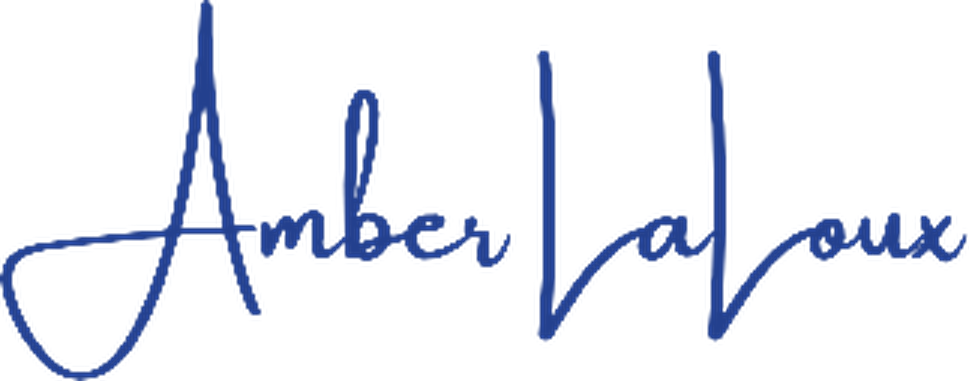
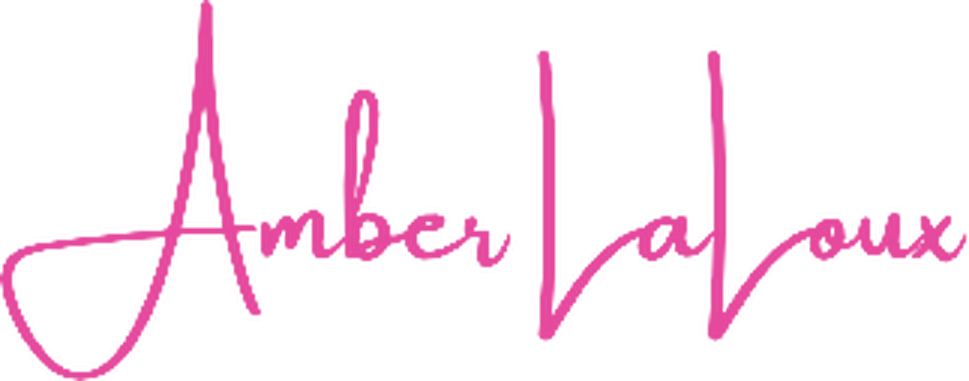
Welcome page: remove number circles, pink signature
Claude-Session: https://claude.ai/code/session_01Hod3XMK3ZcDXfs4SLCtgPB

Changed region(s): [[0.0, 0.0, 0.5263, 1.0], [0.5263, 0.1155, 1.0, 0.895]]

diff --git a/warrior_welcome.html b/warrior_welcome.html
@@ -67,7 +67,6 @@ footer{text-align:center;padding:30px 20px;font-size:15px;color:#7A6355}
 </section>
 
 <section class="gift" id="prayer">
-  <div class="num">1</div>
   <div>
     <h2>Your Warrior Prayer</h2>
     <p>Find a quiet moment, take a deep breath, and let me pray over you and your home.</p>
@@ -76,7 +75,6 @@ footer{text-align:center;padding:30px 20px;font-size:15px;color:#7A6355}
 </section>
 
 <section class="gift" id="song">
-  <div class="num">2</div>
   <div>
     <h2>Rise Up, Warrior Woman</h2>
     <p>Your Warrior Call anthem, an original song written for women who answer the call. Play it loud on the hard days.</p>
@@ -85,7 +83,6 @@ footer{text-align:center;padding:30px 20px;font-size:15px;color:#7A6355}
 </section>
 
 <section class="gift" id="cards">
-  <div class="num">3</div>
   <div>
     <h2>Your Declaration Cards</h2>
     <p>Eight printable cards to go with your song. Print them, cut them out, and put them on your mirror, your fridge, or your car visor. Speak them out loud every morning.</p>
@@ -94,7 +91,6 @@ footer{text-align:center;padding:30px 20px;font-size:15px;color:#7A6355}
 </section>
 
 <section class="gift" id="shop">
-  <div class="num">4</div>
   <div>
     <h2>20% Off Scripture Printables</h2>
     <p>Fill your home with God's Word. Tap the button below and your 20% discount is applied for you, or enter the code at checkout.</p>
@@ -103,7 +99,6 @@ footer{text-align:center;padding:30px 20px;font-size:15px;color:#7A6355}
 </section>
 
 <section class="gift" id="praying" style="border-bottom:0">
-  <div class="num">5</div>
   <div>
     <h2>A Praying for You Card</h2>
     <p>Is there a sister on your heart? Save this card and send it to her with a text that says, "I prayed for you today." If she answers the Warrior Call and writes your name in "Who invited you?", you'll both be blessed.</p>
